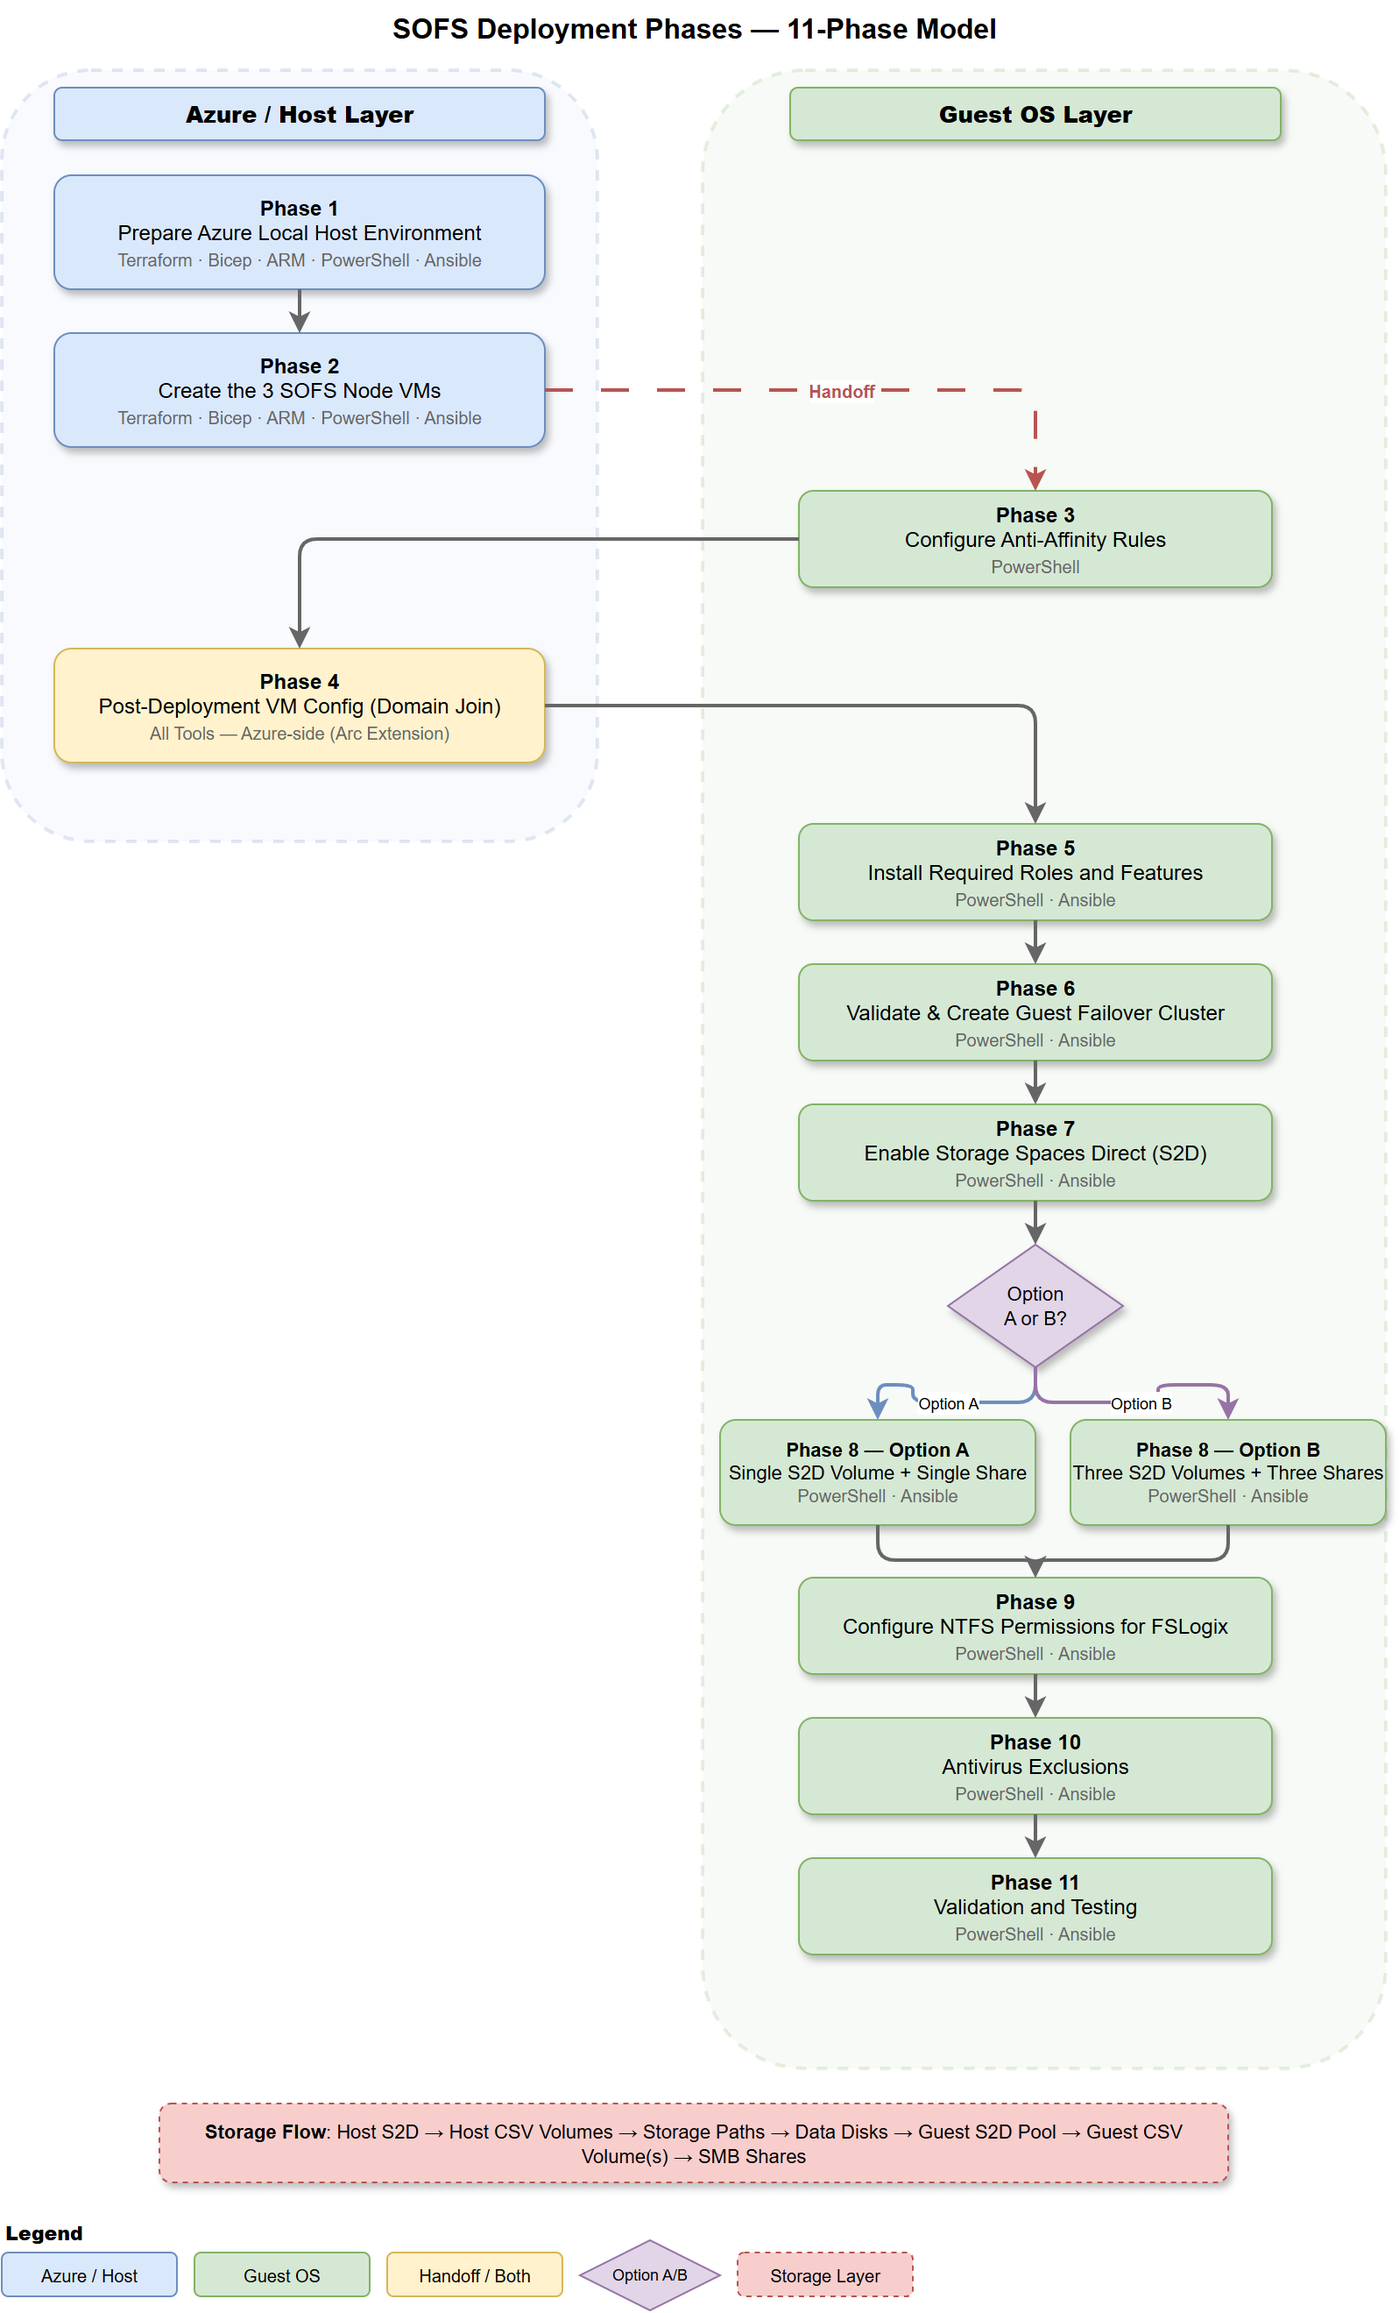
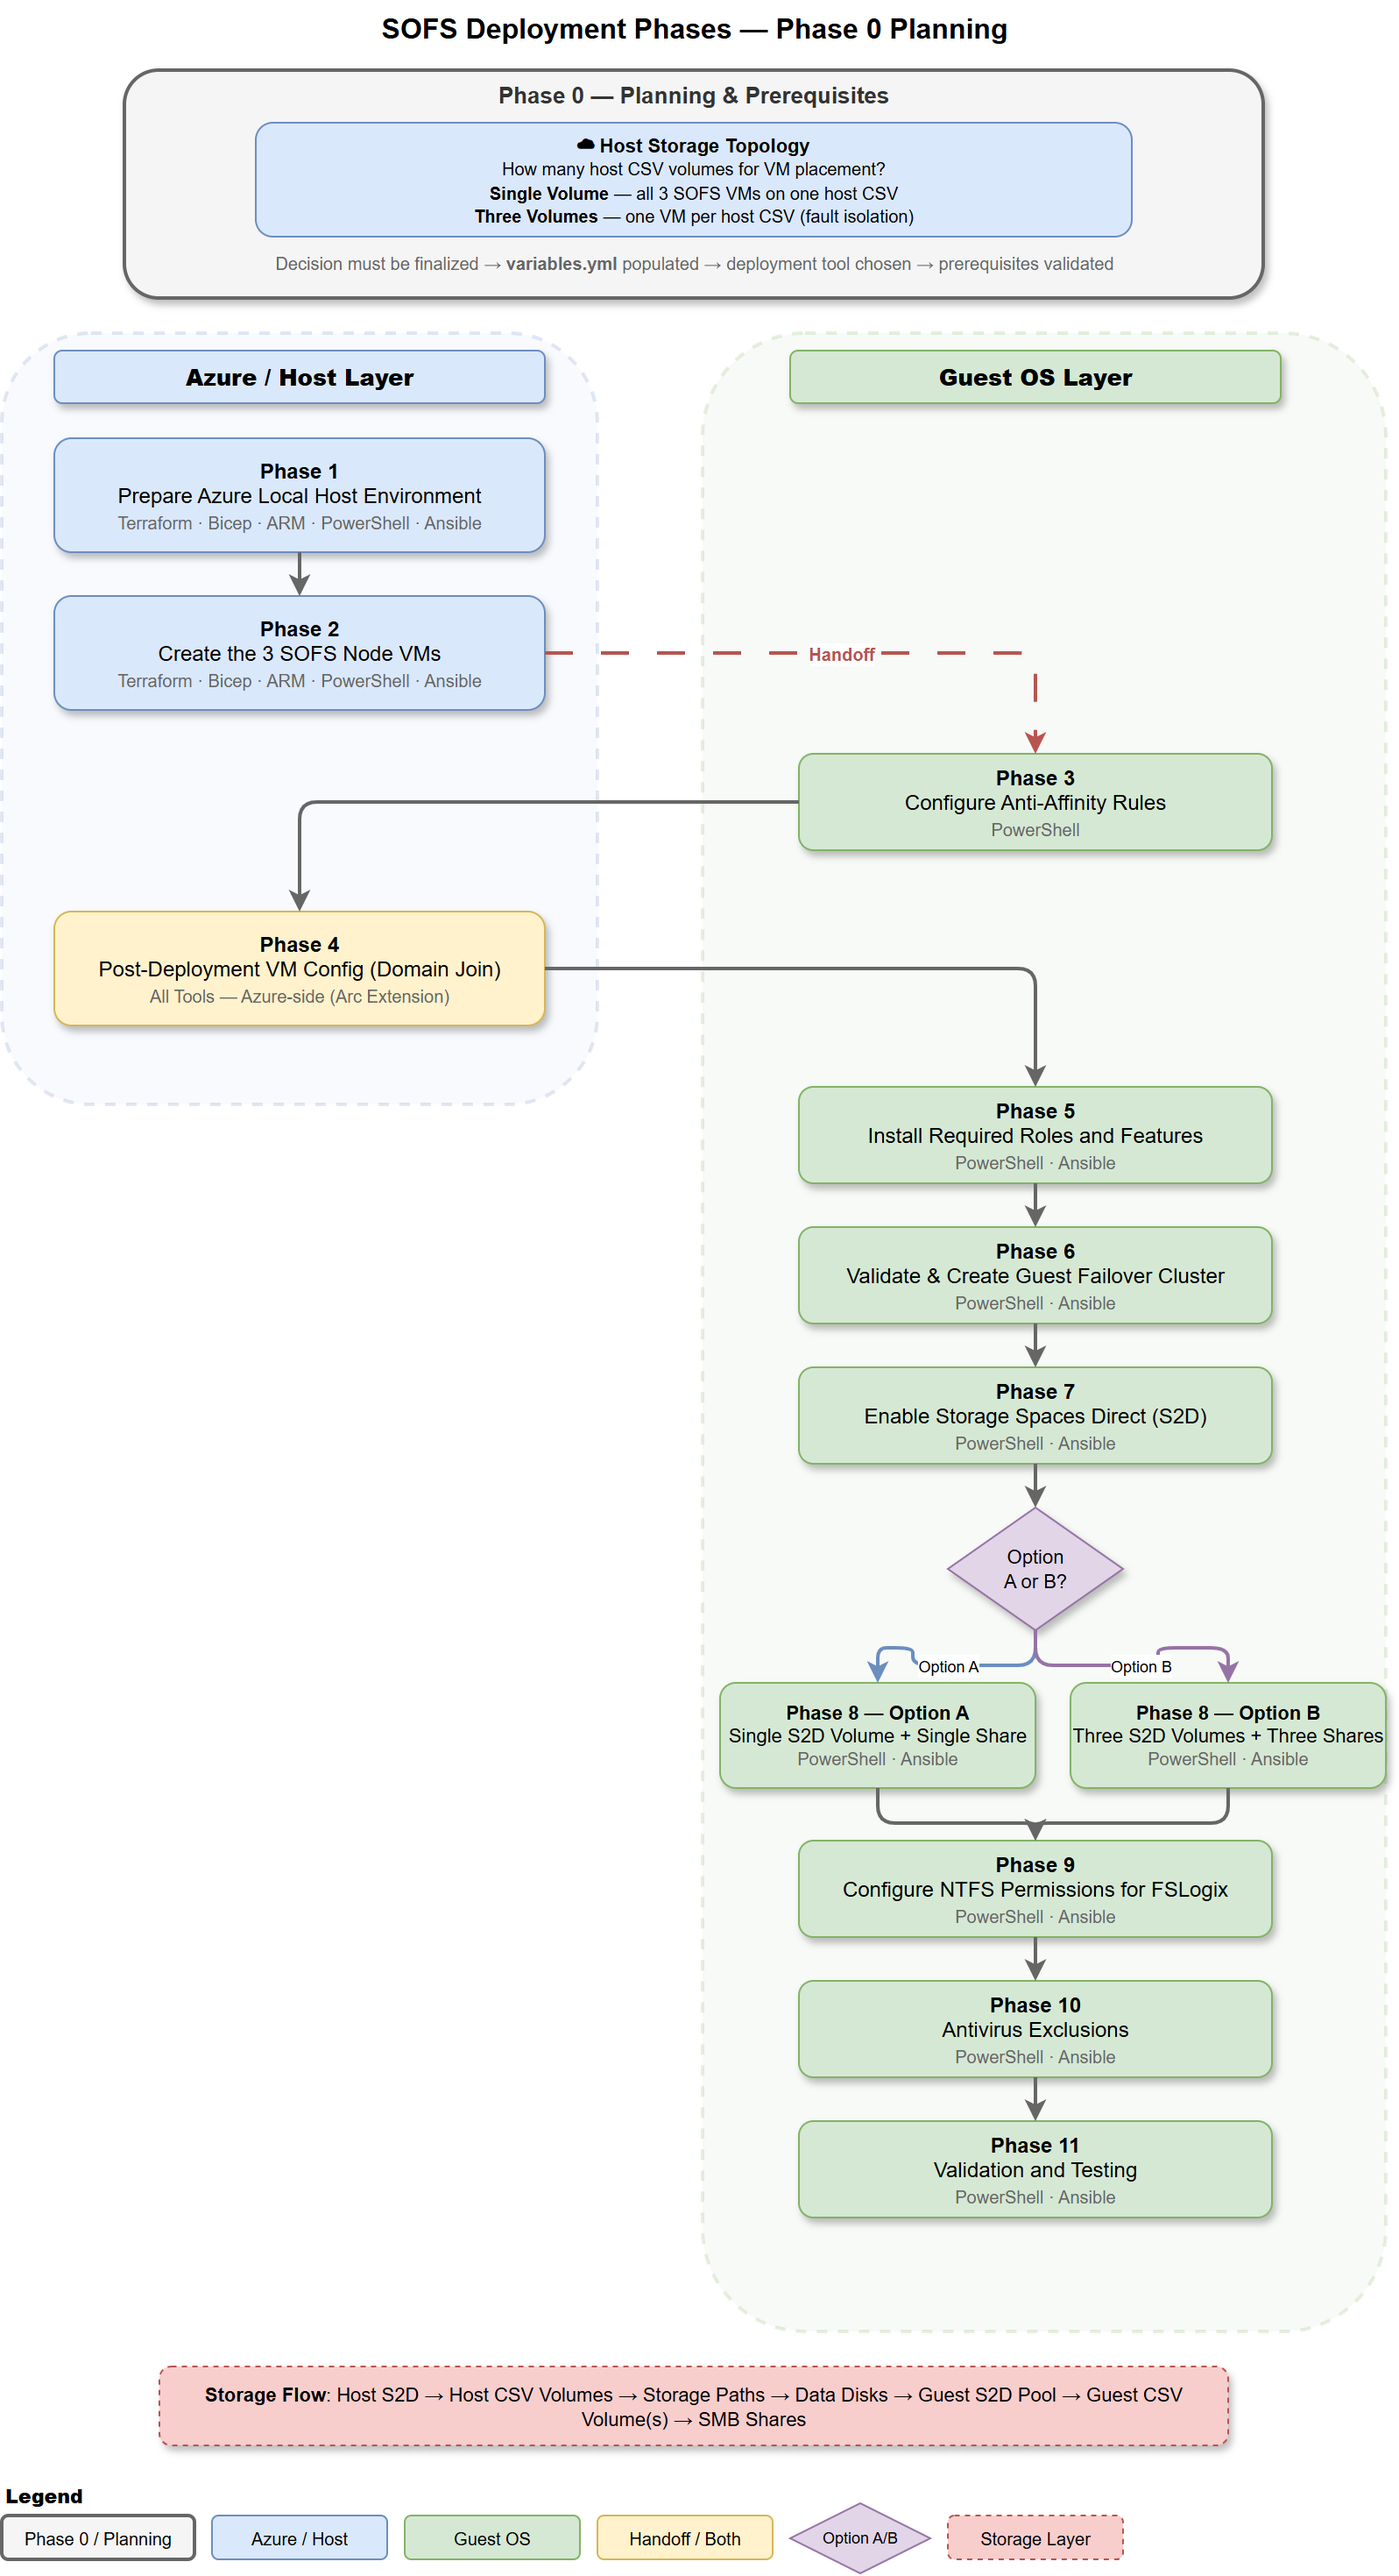
docs: add Phase 0 planning checkpoint to deployment diagram
- Replace original 11-phase diagram with Phase 0 variant
- Phase 0 shows host storage topology decision (single CSV vs one-per-VM)
- Re-export PNG at 2x scale (332 KB)
- Update Mermaid diagram in overview.md with Phase 0 node
- Clean up draft option1/option2 drawio files

diff --git a/docs/architecture/overview.md b/docs/architecture/overview.md
@@ -68,10 +68,12 @@ The solution builds through a layered stack:
 
 ## Deployment Phases
 
-The solution is deployed through 11 phases spanning two layers — **Azure / Host** provisioning and **Guest OS** configuration. The handoff between layers happens after VM creation (Phase 2), with Domain Join (Phase 4) crossing back to the Azure layer briefly.
+The solution begins with a **Phase 0 planning checkpoint** — finalize the host storage topology decision, populate `variables.yml`, and choose your deployment tool — then progresses through 11 execution phases spanning two layers: **Azure / Host** provisioning and **Guest OS** configuration. The handoff between layers happens after VM creation (Phase 2), with Domain Join (Phase 4) crossing back to the Azure layer briefly.
 
 ```mermaid
 flowchart TD
+    P0["<b>Phase 0 — Planning & Prerequisites</b><br/>Host Storage Topology: single CSV or one-per-VM?<br/><i>Finalize variables.yml · Choose tool · Validate prereqs</i>"]
+
     subgraph azure["Azure / Host Layer"]
         P1["<b>Phase 1</b><br/>Prepare Azure Local Host Environment<br/><i>Terraform · Bicep · ARM · PowerShell · Ansible</i>"]
         P2["<b>Phase 2</b><br/>Create the 3 SOFS Node VMs<br/><i>Terraform · Bicep · ARM · PowerShell · Ansible</i>"]
@@ -91,6 +93,7 @@ flowchart TD
         P11["<b>Phase 11</b><br/>Validation and Testing<br/><i>PowerShell · Ansible</i>"]
     end
 
+    P0 --> P1
     P1 --> P2
     P2 -.->|Handoff| P3
     P3 --> P4
@@ -105,6 +108,7 @@ flowchart TD
     P9 --> P10
     P10 --> P11
 
+    style P0 fill:#f5f5f5,stroke:#666666,stroke-width:2px,color:#333
     style azure fill:#dae8fc,stroke:#6c8ebf,color:#333
     style guest fill:#d5e8d4,stroke:#82b366,color:#333
     style P4 fill:#fff2cc,stroke:#d6b656,color:#333
